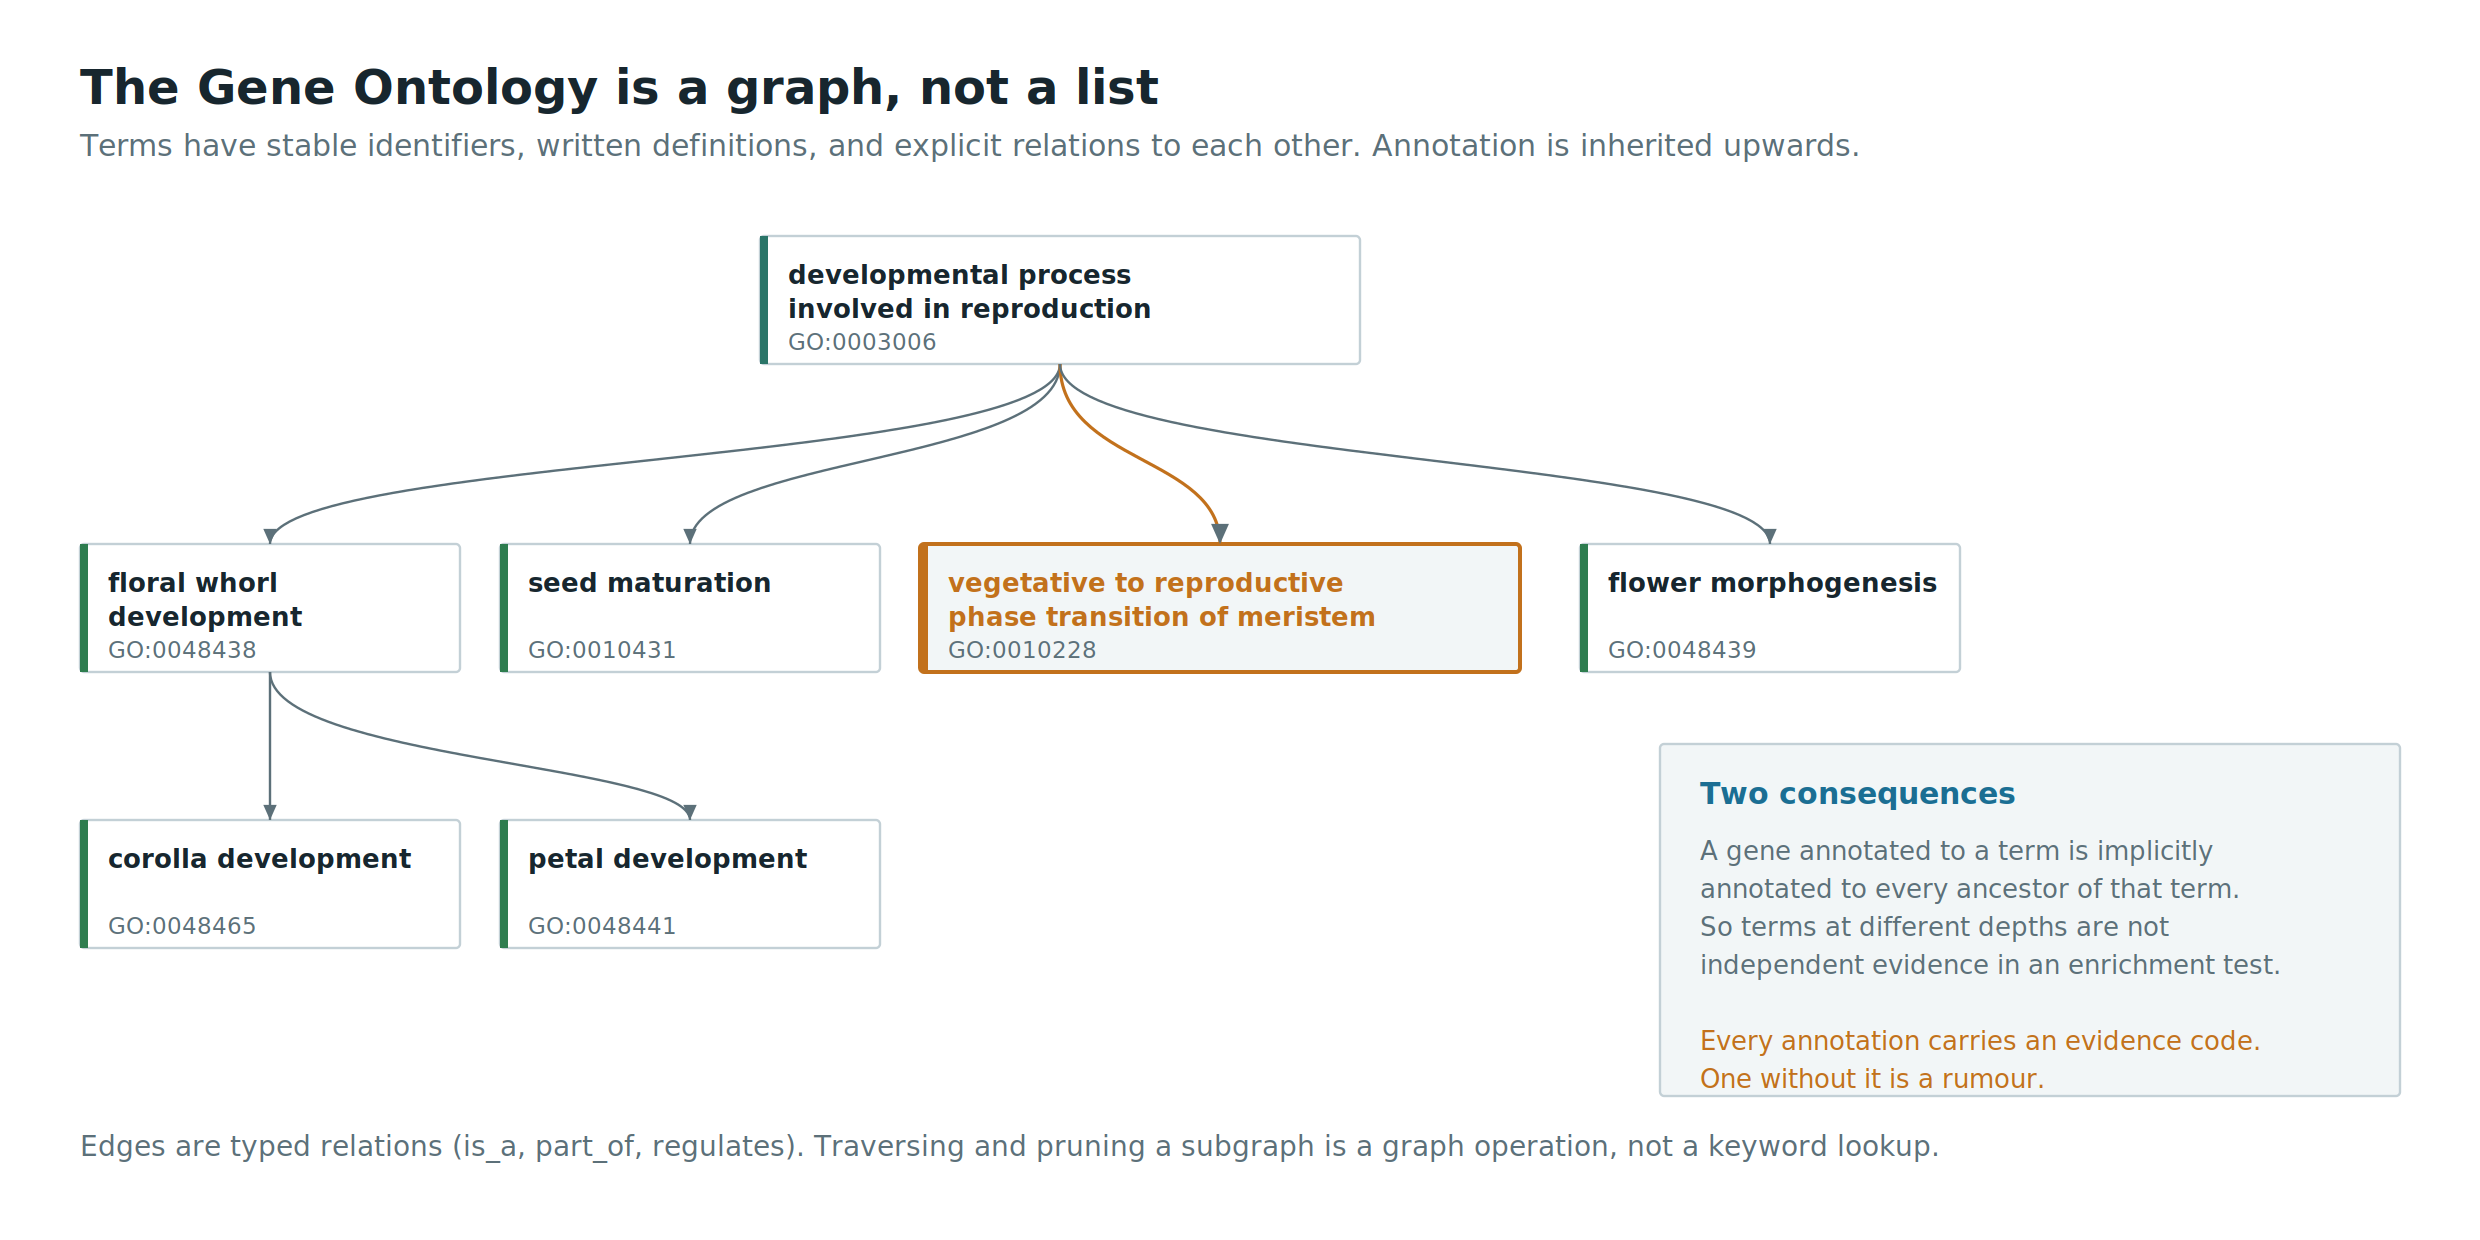
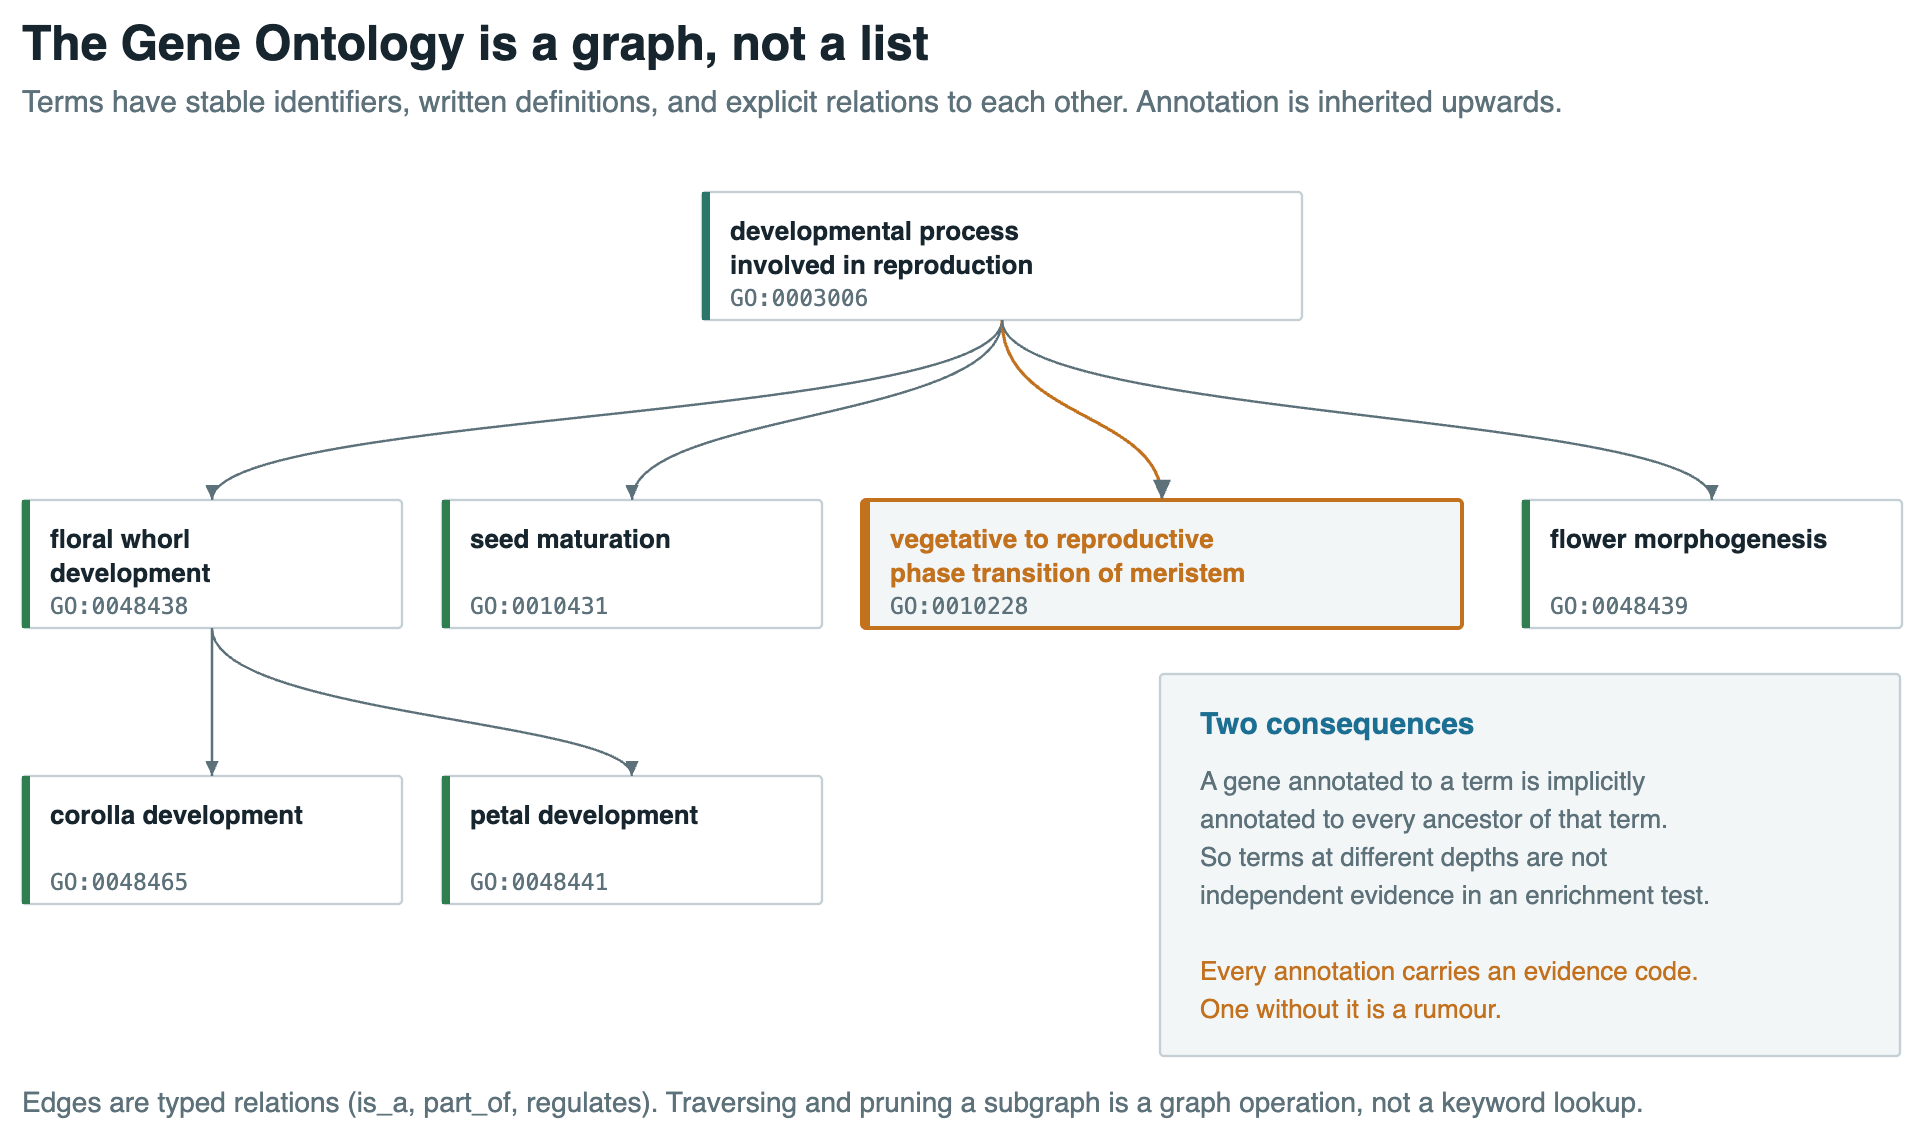
updated lecture2

diff --git a/doc/d1/lecture2.md b/doc/d1/lecture2.md
@@ -169,6 +169,8 @@ NCBI and not at all in WoRMS is telling you something true about what WoRMS is f
 The ontology problem
 --------------------
 
+![](lecture2/jersey-kale.jpg)
+
 Now the same problem one level up, for the things you measured rather than the organisms.
 
 When does a plant flower? Four trait databases, four field names:
@@ -187,6 +189,8 @@ one source may be recording dates and another an age in days?
 
 What an ontology is
 -------------------
+
+![](lecture2/ontology.png)
 
 An ontology is a formal naming of the types, properties and relationships in a domain: terms with
 stable identifiers, written definitions, and explicit relations between them.
@@ -282,8 +286,8 @@ are machine-readable and the metadata are public.
 A live audit
 ------------
 
-Back to this morning's puzzle. The Gulf of Mexico study deposited in three places. Let us score one
-of them against the four principles together, live.
+Back to this morning's introduction. The Gulf of Mexico study deposited in three places. 
+Let us score one of them against the four principles together, live.
 
 Things to look for on the landing page:
 
